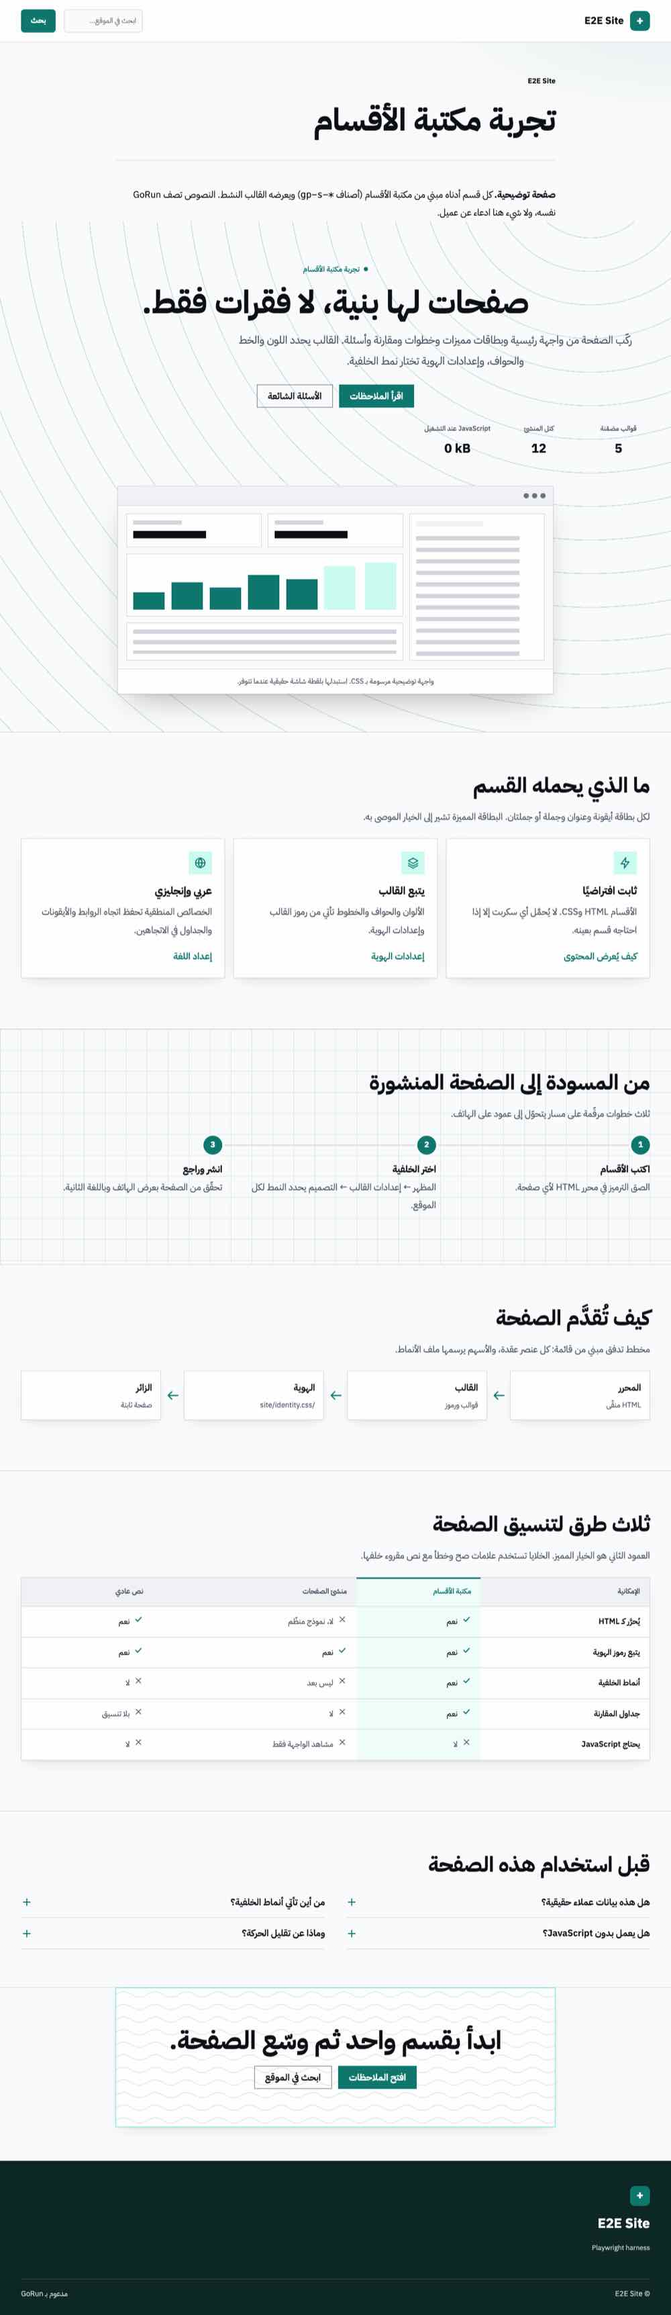
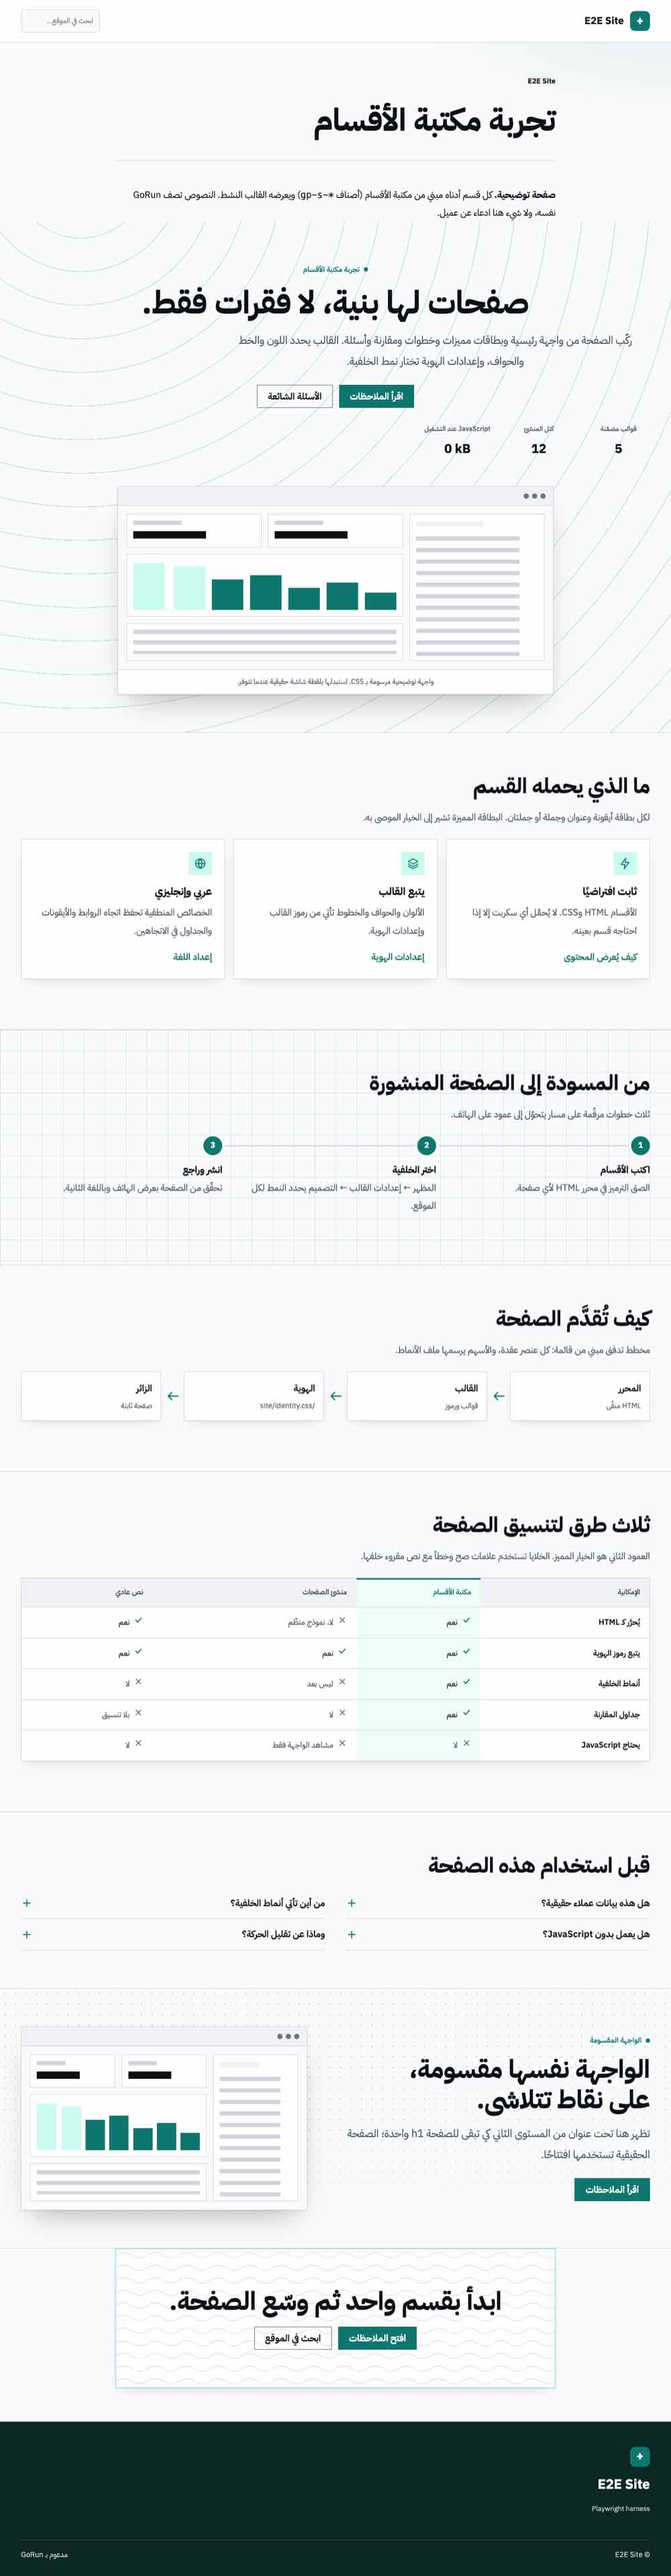
fix(themes): review follow-ups for the section-component pilot
Commerce product descriptions written with the section library were a
false negative of the used-asset loader: usesSections now honours
Extra["sections"] (set by the commerce product handler when the
description contains gp-s-) and any string in Extra, with tests. Both
pilot fixtures carry both hero variants (the second under an h2, with an
h2 hero rule), so the split hero with fading dots and the centered hero
on circles render in both directions. The changelog states under Changed
that existing gp-s-* pages (the starter About page) look different.
gp-s-bleed is documented for centred-column themes only; themes whose own
templates use gp-s-* keep a plain link, and the contract check tolerates
{{ sections . }} spacing. Nits: gp-s-copy rule, :active transform cleared
under reduced motion, circles anchor and chart bars mirrored in RTL,
refreshed sizes and screenshots.

diff --git a/themes/default/assets/sections.css b/themes/default/assets/sections.css
@@ -64,6 +64,10 @@
   --gp-pat-solid: linear-gradient(rgb(0 0 0 / .4), rgb(0 0 0 / .4));
   --gp-pat-solid-size: 100% 100%;
 }
+/* Anchors follow the reading direction. */
+:where(html[dir="rtl"]) :where(.gp-s-bg) {
+  --gp-pat-circles: repeating-radial-gradient(circle at 12% -10%, #000 0 1.5px, transparent 1.5px calc(64px * var(--gp-s-scale)));
+}
 :where(.gp-s-bg)::before {
   content: "";
   position: absolute;
@@ -104,6 +108,9 @@
 :where(.gp-s-hero, .gp-s-band, .gp-s-cta) { padding-block: clamp(32px, 6vw, 72px); }
 :where(.gp-s-hero) { border-bottom: 1px solid var(--line, #e5e5e5); }
 :where(.gp-s-hero) :where(h1) { font-size: clamp(36px, 5.2vw, 60px); line-height: 1.2; margin: 12px 0 16px; text-wrap: balance; }
+/* A hero used lower on a page (one h1 per page) titles itself with an h2. */
+:where(.gp-s-hero) :where(h2) { font-size: clamp(30px, 4.2vw, 48px); line-height: 1.2; margin: 12px 0 16px; text-wrap: balance; }
+:where(.gp-s-copy) { min-width: 0; }
 :where(.gp-s-eyebrow) { display: inline-flex; align-items: center; gap: 8px; font-size: 14px; font-weight: 600; color: var(--green, #1f6feb); }
 :where(.gp-s-eyebrow)::before { content: ""; width: 8px; height: 8px; border-radius: 50%; background: currentColor; flex: 0 0 auto; }
 :where(.gp-s-lead) { font-size: clamp(18px, 1.6vw, 21px); color: var(--muted, #555); max-width: 40em; margin: 0 0 24px; }
@@ -121,9 +128,9 @@
 /* Split hero: copy beside media (an image, a product preview or a diagram). */
 :where(.gp-s-hero-split) { display: grid; grid-template-columns: minmax(0, 1.05fr) minmax(0, .95fr); gap: clamp(24px, 4vw, 56px); align-items: center; }
 :where(.gp-s-hero-split) > :where(*) { min-width: 0; }
-:where(.gp-s-hero-split) :where(h1) { max-width: 16ch; }
+:where(.gp-s-hero-split) :where(h1, h2) { max-width: 16ch; }
 :where(.gp-s-hero-centered) { text-align: center; }
-:where(.gp-s-hero-centered) :where(h1, .gp-s-lead) { margin-inline: auto; }
+:where(.gp-s-hero-centered) :where(h1, h2, .gp-s-lead) { margin-inline: auto; }
 :where(.gp-s-hero-centered) :where(.gp-s-actions) { justify-content: center; }
 :where(.gp-s-hero-centered) > :where(.gp-s-media) { max-width: 52rem; margin: clamp(28px, 4vw, 48px) auto 0; }
 :where(.gp-s-media) :where(img) { display: block; width: 100%; height: auto; }
@@ -268,6 +275,7 @@
     linear-gradient(to top, var(--green, #1f6feb) 62%, transparent 62%) 66% 100% / 12% 100% no-repeat,
     linear-gradient(to top, var(--accent-soft, #cfe0f5) 88%, transparent 88%) 82.5% 100% / 12% 100% no-repeat,
     linear-gradient(to top, var(--accent-soft, #cfe0f5) 95%, transparent 95%) 100% 100% / 12% 100% no-repeat, var(--panel, #fff); background-origin: content-box; }
+:where(html[dir="rtl"]) :where(.gp-s-ui-chart) { transform: scaleX(-1); }
 :where(.gp-s-ui-rows) { grid-column: 2 / -1; min-height: 72px; padding: 12px;
   background: repeating-linear-gradient(to bottom, var(--line, #e5e5e5) 0 8px, transparent 8px 20px) 0 0 / 100% auto no-repeat, var(--panel, #fff); background-origin: content-box; }
 
@@ -280,7 +288,7 @@
 @media (max-width: 760px) {
   :where(.gp-s-hero-split) { grid-template-columns: 1fr; }
   :where(.gp-s-hero-split) > :where(.gp-s-media) { order: 2; }
-  :where(.gp-s-hero-split) :where(h1) { max-width: none; }
+  :where(.gp-s-hero-split) :where(h1, h2) { max-width: none; }
   :where(.gp-s-steps) { gap: 20px; }
   :where(.gp-s-steps) > :where(li) { padding-inline-start: 52px; }
   :where(.gp-s-steps) > :where(li)::before { position: absolute; inset-inline-start: 0; top: 0; margin: 0; }
@@ -295,7 +303,7 @@
 
 @media (prefers-reduced-motion: reduce) {
   :where(.gp-s-btn, .gp-s-card, .gp-s-faq summary)::after, :where(.gp-s-btn, .gp-s-card) { transition: none; }
-  :where(.gp-s-card):hover { transform: none; }
+  :where(.gp-s-card):hover, :where(.gp-s-btn):active { transform: none; }
   :where(.gp-s-faq) :where(details[open] > summary)::after { transform: none; }
 }
 
@@ -304,7 +312,7 @@
    a{color:inherit}) outrank :where(); these (0,1,n) rules restore the block
    properties they would strip. Themes override them at the same prefix. */
 :root .gp-s-hero, :root .gp-s-band { border-bottom: 1px solid var(--line, #e5e5e5); }
-:root .gp-s-hero h1 { margin: 12px 0 16px; }
+:root .gp-s-hero :is(h1, h2) { margin: 12px 0 16px; }
 :root .gp-s-lead { margin: 0 0 24px; }
 :root .gp-s-btn { border: 1px solid var(--green, #1f6feb); }
 :root .gp-s-btn-ghost { border-color: var(--line-strong, var(--line, #ccc)); }
@@ -330,6 +338,7 @@
 /* Page bodies: the properties .prose-gp would otherwise take over. */
 :root .prose-gp > :is(.gp-s-hero, .gp-s-band, .gp-s-cta) { margin-top: 0; }
 :root .prose-gp .gp-s-hero h1 { font-size: clamp(36px, 5.2vw, 60px); line-height: 1.2; margin: 12px 0 16px; }
+:root .prose-gp .gp-s-hero h2 { font-size: clamp(30px, 4.2vw, 48px); line-height: 1.2; margin: 12px 0 16px; padding: 0; border: 0; }
 :root .prose-gp :is(.gp-s-band, .gp-s-faq) > h2 { font-size: clamp(26px, 3.4vw, 40px); margin: 0 0 12px; padding: 0; border: 0; }
 :root .prose-gp .gp-s-cta h2 { font-size: clamp(28px, 4vw, 48px); margin: 0 auto 12px; padding: 0; border: 0; }
 :root .prose-gp .gp-s-card h3 { font-size: 20px; margin: 0; }

diff --git a/internal/theme/testdata/sections-pilot.ar.html b/internal/theme/testdata/sections-pilot.ar.html
@@ -67,6 +67,15 @@
   <details><summary>هل يعمل بدون JavaScript؟</summary><p>نعم. كل قسم هنا CSS فقط، بما فيها الأيقونات والأسهم والواجهة المرسومة.</p></details>
   <details><summary>وماذا عن تقليل الحركة؟</summary><p>يُعطَّل ارتفاع البطاقات عند التمرير ودوران علامة الأسئلة عندما يفضّل الزائر تقليل الحركة.</p></details>
 </section>
+<section class="gp-s-hero gp-s-hero-split gp-s-bg gp-s-bg-dots gp-s-bg-fade gp-s-bleed">
+  <div class="gp-s-copy">
+    <span class="gp-s-eyebrow">الواجهة المقسومة</span>
+    <h2>الواجهة نفسها مقسومة، على نقاط تتلاشى.</h2>
+    <p class="gp-s-lead">تظهر هنا تحت عنوان من المستوى الثاني كي تبقى للصفحة h1 واحدة؛ الصفحة الحقيقية تستخدمها افتتاحًا.</p>
+    <p class="gp-s-actions"><a class="gp-s-btn" href="/blog">اقرأ الملاحظات</a></p>
+  </div>
+  <div class="gp-s-media"><figure class="gp-s-preview"><div class="gp-s-preview-ui"><span class="gp-s-ui-side"></span><span class="gp-s-ui-stat"></span><span class="gp-s-ui-stat"></span><span class="gp-s-ui-chart"></span><span class="gp-s-ui-rows"></span></div></figure></div>
+</section>
 <section class="gp-s-cta gp-s-cta-panel gp-s-bg gp-s-bg-waves">
   <h2>ابدأ بقسم واحد ثم وسّع الصفحة.</h2>
   <p class="gp-s-actions"><a class="gp-s-btn" href="/blog">افتح الملاحظات</a><a class="gp-s-btn gp-s-btn-ghost" href="/search?q=sections">ابحث في الموقع</a></p>

diff --git a/internal/theme/testdata/sections-pilot.en.html b/internal/theme/testdata/sections-pilot.en.html
@@ -69,6 +69,13 @@
   <details><summary>Does it work without JavaScript?</summary><p>Yes. Every block here is CSS only, including the icons, the arrows and the drawn interface.</p></details>
   <details><summary>What about reduced motion?</summary><p>Hover lifts and the FAQ marker rotation are disabled when the visitor prefers reduced motion.</p></details>
 </section>
+<section class="gp-s-hero gp-s-hero-centered gp-s-bg gp-s-bg-circles gp-s-bleed">
+  <span class="gp-s-eyebrow">Centered hero variant</span>
+  <h2>The same hero, centered, on concentric circles.</h2>
+  <p class="gp-s-lead">Shown here under an h2 so the page keeps one h1; a real page would use it as its opening.</p>
+  <p class="gp-s-actions"><a class="gp-s-btn" href="/blog">Read the notes</a></p>
+  <div class="gp-s-media"><figure class="gp-s-preview"><div class="gp-s-preview-ui"><span class="gp-s-ui-side"></span><span class="gp-s-ui-stat"></span><span class="gp-s-ui-stat"></span><span class="gp-s-ui-chart"></span><span class="gp-s-ui-rows"></span></div></figure></div>
+</section>
 <section class="gp-s-cta gp-s-cta-panel gp-s-bg gp-s-bg-waves">
   <h2>Start from one section and grow the page.</h2>
   <p class="gp-s-actions"><a class="gp-s-btn" href="/blog">Open the notes</a><a class="gp-s-btn gp-s-btn-ghost" href="/search?q=sections">Search the site</a></p>

diff --git a/pkg/themekit/contract.go b/pkg/themekit/contract.go
@@ -12,6 +12,7 @@ import (
 	"fmt"
 	"os"
 	"path/filepath"
+	"regexp"
 	"slices"
 	"strings"
 )
@@ -168,8 +169,9 @@ func ValidateDir(dir string, roots []string, opts Options) Result {
 	if len(opts.ForbidScriptHosts) > 0 {
 		res.Issues = append(res.Issues, scanForbiddenHosts(dir, opts.ForbidScriptHosts)...)
 	}
-	// {{sections .}} links sections.css only on pages whose content uses it.
-	if !headProvides(chain, "{{sections") && !headProvides(chain, "sections.css") {
+	// {{sections .}} links sections.css only on pages whose content uses it;
+	// a theme whose own templates use gp-s-* keeps a plain link instead.
+	if !headMatches(chain, sectionsCall) && !headProvides(chain, "sections.css") {
 		res.Issues = append(res.Issues, Issue{Code: "head", Message: "head must call {{sections .}} or load sections.css (own or inherited)", Path: "parts/head.html"})
 	}
 	if !headProvides(chain, "builderIdentity") && !headProvides(chain, "builderStyle") {
@@ -261,6 +263,21 @@ func resolves(chain []string, kind, name string) bool {
 	for _, dir := range chain {
 		if _, err := os.Stat(filepath.Join(dir, rel)); err == nil {
 			return true
+		}
+	}
+	return false
+}
+
+// sectionsCall matches the {{sections .}} head func, with any spacing.
+var sectionsCall = regexp.MustCompile(`\{\{-?\s*sections\b`)
+
+func headMatches(chain []string, re *regexp.Regexp) bool {
+	for _, dir := range chain {
+		for _, name := range []string{"parts/head.html", "parts/head-extra.html"} {
+			raw, err := os.ReadFile(filepath.Join(dir, name))
+			if err == nil && re.Match(raw) {
+				return true
+			}
 		}
 	}
 	return false

diff --git a/internal/theme/sections_pilot_test.go b/internal/theme/sections_pilot_test.go
@@ -138,6 +138,26 @@ func TestSectionsStylesheetLoadsOnlyWhenContentUsesIt(t *testing.T) {
 			mustContain(t, rec.Body.String(), "/themes/default/assets/sections.css")
 		})
 	}
+	// Modules that print their own sanitized HTML (commerce product
+	// descriptions) opt in through Extra; any string in Extra counts too.
+	e := newEnv(t, "../../themes")
+	for name, extra := range map[string]map[string]any{
+		"flag":   {"sections": true},
+		"string": {"description": `<section class="gp-s-band"><h2>x</h2></section>`},
+	} {
+		plain := content.Item{Type: "page", Slug: "plain", Title: "Plain", Body: "<p>No sections here.</p>", Status: "published"}
+		rec, err := e.render(kernel.KindRequest{Kind: KindPage, Type: "page", Slug: "plain"}, &Context{Content: &plain, Extra: extra})
+		if err != nil || rec.Code != 200 {
+			t.Fatalf("%s: status=%d err=%v", name, rec.Code, err)
+		}
+		mustContain(t, rec.Body.String(), "/themes/default/assets/sections.css")
+	}
+	rec, err := e.render(kernel.KindRequest{Kind: KindPage, Type: "page", Slug: "plain"}, &Context{Content: &content.Item{Type: "page", Slug: "plain", Body: "<p>x</p>"}, Extra: map[string]any{"sections": false, "commerce": true}})
+	if err != nil || rec.Code != 200 {
+		t.Fatalf("extra off: status=%d err=%v", rec.Code, err)
+	}
+	mustNotContain(t, rec.Body.String(), "sections.css")
+
 	html := renderPilot(t, "default", "en")
 	if i, j := strings.Index(html, "sections.css"), strings.Index(html, "tailwind.css"); i < 0 || j < i {
 		t.Errorf("default: sections.css must load before tailwind.css (got %d, %d)", i, j)

diff --git a/internal/theme/funcs.go b/internal/theme/funcs.go
@@ -784,7 +784,10 @@ func (f *funcs) sectionsCSS(tc *Context) template.HTML {
 }
 
 // usesSections reports whether any body the page may print carries a gp-s-
-// class (the sanitizer keeps only gp-* classes, so the prefix is reliable).
+// class (the sanitizer keeps only gp-* classes, so the prefix is reliable):
+// the item being rendered, any listed item, any string in Extra, or a module
+// that renders its own sanitized HTML and sets Extra["sections"] = true (the
+// commerce product page does this for a description using the blocks).
 func usesSections(tc *Context) bool {
 	if tc == nil {
 		return false
@@ -794,6 +797,14 @@ func usesSections(tc *Context) bool {
 	}
 	for i := range tc.Items {
 		if strings.Contains(tc.Items[i].Body, "gp-s-") {
+			return true
+		}
+	}
+	if on, _ := tc.Extra["sections"].(bool); on {
+		return true
+	}
+	for _, v := range tc.Extra {
+		if x, ok := v.(string); ok && strings.Contains(x, "gp-s-") {
 			return true
 		}
 	}

diff --git a/internal/commerce/theme_funcs.go b/internal/commerce/theme_funcs.go
@@ -151,7 +151,9 @@ func slashless(w http.ResponseWriter, r *http.Request) {
 // renderProduct renders the product page, optionally with a checkout error
 // (an i18n key) and the email the visitor typed.
 func (h *publicHandlers) renderProduct(w http.ResponseWriter, r *http.Request, p *Product, status int, errKey, email string) {
-	extra := map[string]any{"product": p, "title": p.Name, "checkout_action": "/checkout/" + p.Slug, "email": strings.TrimSpace(email)}
+	// A description written with the section library needs its stylesheet
+	// (theme.Context.Extra["sections"]; usesSections cannot see *Product).
+	extra := map[string]any{"product": p, "title": p.Name, "checkout_action": "/checkout/" + p.Slug, "email": strings.TrimSpace(email), "sections": strings.Contains(p.Description, "gp-s-")}
 	if errKey != "" {
 		extra["checkout_error"] = errKey
 	}

diff --git a/docs/validation/sections-pilot/README.md b/docs/validation/sections-pilot/README.md
@@ -11,14 +11,17 @@ Demo page: `internal/theme/testdata/sections-pilot.{en,ar}.html`, rendered by th
 Go tests (`internal/theme/sections_pilot_test.go`) and imported by
 `e2e/tests/sections-pilot.spec.ts` as `/en/sections-pilot-en` and
 `/sections-pilot-ar`. Screenshots in this folder come from that Playwright run
-(default and business themes; 1280 and 375 px; English LTR and Arabic RTL).
+(default and business themes; 1280 and 375 px; English LTR and Arabic RTL). Both
+fixtures carry both hero variants (the second under an `h2`), so the split hero
+with the fading dots and the centered hero on circles are rendered in both
+directions.
 
 ## What the suites verified
 
 | Check | Where | Result |
 |---|---|---|
 | Sanitizer keeps every section class and element the pilot uses; strips `<svg>`, `style`, `aria-*` | Go `TestSanitizerKeepsPilotSections` | pass |
-| Stylesheet covers every class, embeds only `data:` SVG, no `@import`, ≤ 32 KiB raw / ≤ 8 KiB gzip | Go `TestSectionsStylesheetCoversPilotAndStaysStatic` | pass (28 322 B raw, 6 212 B gzip) |
+| Stylesheet covers every class, embeds only `data:` SVG, no `@import`, ≤ 32 KiB raw / ≤ 8 KiB gzip | Go `TestSectionsStylesheetCoversPilotAndStaysStatic` | pass (31012 B raw, 6745 B gzip) |
 | Identity pattern keys: tokens only, unknown values ignored, hex validated, design tab, reset | Go `TestIdentityPattern*` | pass |
 | Pilot page renders 200 in default and business, en and ar | Go `TestSectionsPilotRendersInDefaultAndBusiness` | pass |
 | No 500 marker, no horizontal scroll, no page errors, `dir` per locale | Playwright, 2 themes × 2 widths × 2 locales | pass |
@@ -38,10 +41,10 @@ has no `gp-s-` block must not load the stylesheet at all (used-assets-only).
 
 | Measure | Before (main 00f123b) | After | Note |
 |---|---|---|---|
-| `sections.css` raw | 5 426 B | 28 322 B | one file, already loaded by every catalog theme |
-| `sections.css` gzip | 1 671 B | 6 212 B | +4.5 KiB per first visit, cached afterwards |
+| `sections.css` raw | 5 426 B | 31 012 B | one file, linked only on pages that use it |
+| `sections.css` gzip | 1 671 B | 6 745 B | +5.0 KiB on pages with sections, cached afterwards |
 | Requests on the demo page | 14 (default) / 12 (business) | 14 / 12 | no new request; icons and patterns are inline CSS |
-| `sections.css` on pages without sections (home, archive, search, 404) | loaded on every page (1 671 B gzip) | not linked (`{{sections .}}` prints nothing) | one request and 1.7 KiB gzip less than main on those pages; `TestSectionsStylesheetLoadsOnlyWhenContentUsesIt` (5 themes) and the spec's used-asset test |
+| `sections.css` on pages without sections (home, archive, search, 404) | loaded on every page (1 671 B gzip) | not linked (`{{sections .}}` prints nothing) | one request and 1.7 KiB gzip less than main on those pages; `TestSectionsStylesheetLoadsOnlyWhenContentUsesIt` (5 themes) and the spec's used-asset test. A listing links it whenever a listed body uses a block (the default index prints full bodies), so the home-page numbers hold while no listed post uses the library. Commerce product pages opt in through `Extra["sections"]`. |
 | CSS transferred, home page (encoded) | ≈ 18.7 KiB default / 16.8 KiB business | 17.0 KiB default / 15.1 KiB business, 13 requests | measured by the spec; before = after + the 1.7 KiB the old file cost |
 | CSS transferred, demo page (encoded) | ≈ 19.3 KiB / 15.9 KiB | 23.9 KiB (default) / 20.4 KiB (business) | before = after − stylesheet delta; everything else unchanged |
 | Document transferred (encoded) | — | 2.9–3.4 KiB | HTML body unchanged by the CSS |
@@ -95,6 +98,6 @@ Tailwind build moves to v4.
 6. **Hero scenes.** The Three.js hero scenes stay builder-only. A static
    `gp-s-media` slot takes an image or the drawn preview; a scene would need a
    script loaded only on pages that use it.
-7. **Circles pattern anchor.** `--gp-pat-circles` anchors at `88% -10%`; in RTL
-   the anchor stays at the same physical side. Mirroring it by direction is a
-   one-line follow-up if the design review prefers it.
+7. **Shadows in the dark scheme.** `--gp-s-shadow*` are black-based and all but
+   vanish on a dark background; a dark-palette shadow token in the identity
+   stylesheet would restore depth there.

diff --git a/docs/THEMES.md b/docs/THEMES.md
@@ -146,7 +146,7 @@ Every template receives a `*theme.Context`: `Site`, `Request`, `Kind`, `Content`
 | `content id`, `field . "k"`, `terms . "tax"` | single item, custom field, resolved terms |
 | `media id`, `img m "variant" "class"` | media item; responsive `<img>` with srcset, alt and size |
 | `comments .` | for an item whose type supports `comments`: `{Open, ContentID, Action, Back, Count, Items}` (approved comments, one reply level, never an email), or nil; the form posts `content_id`, `name`, `email`, `body`, `_back`, `website` (honeypot) and `_csrf` to `.Action`, and the page then shows `.Extra.comment_flash` (pending, approved, invalid, closed, limited). `default` and `business` ship a `comments` component |
-| `sections .` | the `<link>` to `sections.css` (resolved through the theme chain), printed only when the page's content, or a listed item's body, carries a `gp-s-` class; pages without sections load nothing (see [Section library](#section-library)) |
+| `sections .` | the `<link>` to `sections.css` (resolved through the theme chain), printed only when the page's content, a listed item's body, or a string in `.Extra` carries a `gp-s-` class, or a module set `.Extra.sections` to true (the commerce product page does, for a description using the blocks); pages without sections load nothing. A theme or pattern whose **own templates** use `gp-s-*` keeps a plain `<link rel="stylesheet" href="{{asset "sections.css"}}">` instead, which the contract also accepts (see [Section library](#section-library)) |
 | `identity .` | the site identity `<style>` (and font links) from Appearance → Theme settings, only for a theme whose own `theme.json` `supports` lists `identity`; print it last in `<head>` (see [Site identity](#site-identity)) |
 | `seo .` | head meta (title, description, canonical, OG) and the `hreflang` alternates |
 | `part "name" .`, `component "name" data` | include a part or component |
@@ -241,7 +241,7 @@ The content sanitizer keeps only `class` values that start with `gp-` (plus edit
 | `figure.gp-s-preview` | Product preview: a window frame around an `img` (plus optional `figcaption`). `div.gp-s-preview-ui` with empty `span`s `gp-s-ui-side`, `gp-s-ui-stat`, `gp-s-ui-chart`, `gp-s-ui-rows` draws a clearly illustrative interface when no screenshot exists. |
 | `gp-s-cta`, `gp-s-cta gp-s-cta-panel` | Closing call to action (plain, or in a bordered panel) |
 | `gp-s-bg` (+ `gp-s-bg-dots`, `-grid`, `-lines`, `-circles`, `-waves`, `-paper`, `-solid`, `-none`; `gp-s-bg-fade`, `gp-s-bg-sparse`, `gp-s-bg-dense`) | Background pattern behind any section. `gp-s-bg` alone takes the site default from `identity_pattern`; a modifier picks its own. Color and density follow `identity_pattern_color` / `identity_pattern_density`. |
-| `gp-s-bleed` | Lets a section span the viewport inside a page body (content stays on the site width) |
+| `gp-s-bleed` | Lets a section span the viewport inside a page body (content stays on the site width). It assumes a centred body column: default, business, magazine and portfolio; in `docs` (article beside a sidebar) the band is shifted and clipped, so leave it off there. |
 
 ```html
 <section class="gp-s-hero gp-s-hero-split gp-s-bg gp-s-bg-dots gp-s-bleed">

diff --git a/CHANGELOG.md b/CHANGELOG.md
@@ -52,6 +52,12 @@ All notable changes to GoRun are recorded here. The format follows
 
 ### Changed
 
+- Existing `gp-s-*` blocks look different: pages already written with the section library
+  (the starter About page, any page built from `docs/THEMES.md` → "Section library") get the
+  pilot's eyebrow dot, card shadow and hover lift, numbered step badges on a track, FAQ
+  plus/minus markers and drawn check marks without any markup change. Colours, fonts and
+  corners still come from the theme tokens; nothing moves or changes size except the hero
+  eyebrow spacing and the step badge.
 - Commerce, saas and membership are optional modules behind the existing `kernel.OptionalModule`
   gate, **enabled by default** so existing installs boot the same set of modules. They answer with
   the new `kernel.AddonEnabled`, which reads the site setting `addons.<name>.enabled` (JSON
